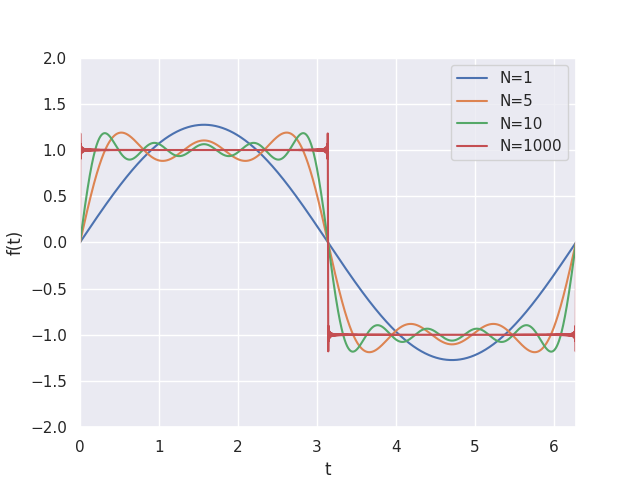
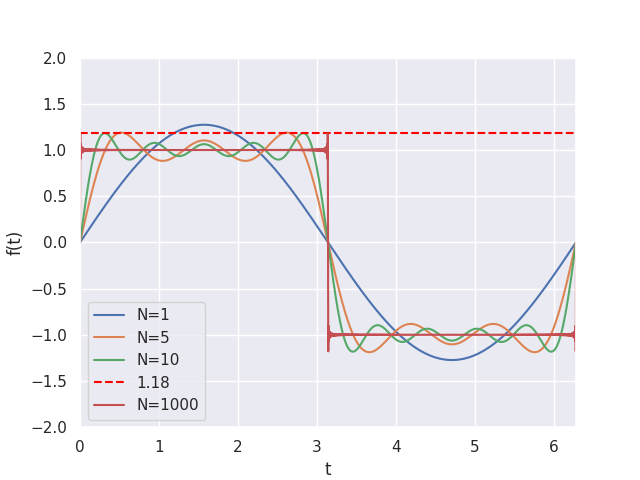
add : 1.18での線

diff --git a/fourier.py b/fourier.py
@@ -51,6 +51,9 @@ def plot_fourier(case=1, kmax=100):
         if k in [1, 5, 10]:
             plt.plot(theta, np.real(z), label="N={}".format(k))
 
+    if case == 2:
+        plt.plot([0, 2 * np.pi],[1.18, 1.18], "red", linestyle='dashed',label="1.18") # normal way
+
     plt.plot(theta, np.real(z), label="N={}".format(kmax))
     plt.xlim(0.0, 2 * np.pi)  # 横軸の表示範囲の指定
     plt.ylim(-2.0, 2.0)  # 縦軸の表示範囲の指定
